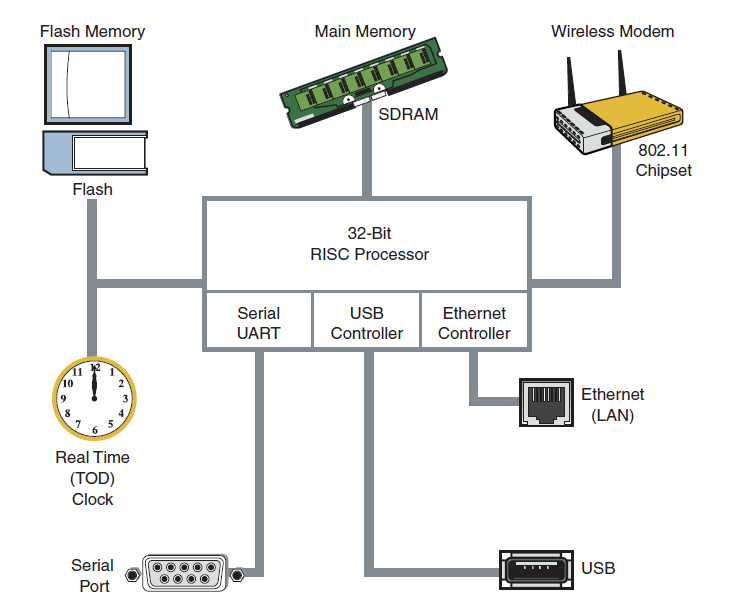
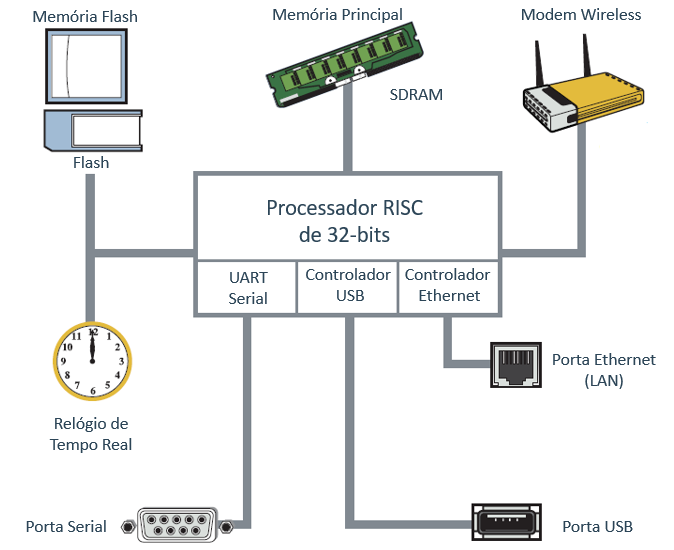
CHANGED: Tradução de Figuras

Changed region(s): [[0.0312, 0.0, 0.9659, 0.9891]]

diff --git a/textual/cap2.tex b/textual/cap2.tex
@@ -619,7 +619,7 @@ Linux embarcado  nada mais é do que uma versão do Kernel Linux que é desenvol
 \begin{figure}[H]
   \caption{Componentes básicos do Linux Embarcado}
   \begin{center}
-      \includegraphics[scale=0.50]{img/componentes_linux_p13}
+      \includegraphics[scale=0.65]{img/componentes_linux_p13}
   \end{center}
   \fonte{Adaptado de \citeonline{Prentice}} 
   \label{fig:componentes_linux_p13}

diff --git a/pre_textual/listas.tex b/pre_textual/listas.tex
@@ -29,6 +29,7 @@
 \item[SDRAM] Synchronous Dynamic Random-Access Memory - Memória de Acesso Dinâmico Randômico
 \item[USB]  Universal Serial Bus - Barramento Serial Universal
 \item[GPIO] General Purpose Input/Output - Entradas e Saídas de uso Geral
+\item[IDE] Integrated Development Environment - Ambiente de Desenvolvimento Integrado
 
 \end{siglas}
 % ----------------------------------------------

diff --git a/textual/cap3.tex b/textual/cap3.tex
@@ -23,7 +23,7 @@
 \begin{figure}[!ht]
   \caption{Topologia de Rede}
   \begin{center}
-      \includegraphics[scale=.55]{img/comunicacao_projeto}
+      \includegraphics[scale=.75]{img/comunicacao_projeto}
   \end{center}
   \fonte{Elaborado peloAutor.} 
   \label{fig:pid_neural_Applying_p18}

diff --git a/main.tex b/main.tex
@@ -151,4 +151,5 @@
 %\phantompart
 %\printindex
 % ----------------------------------------------
+
 \end{document}
